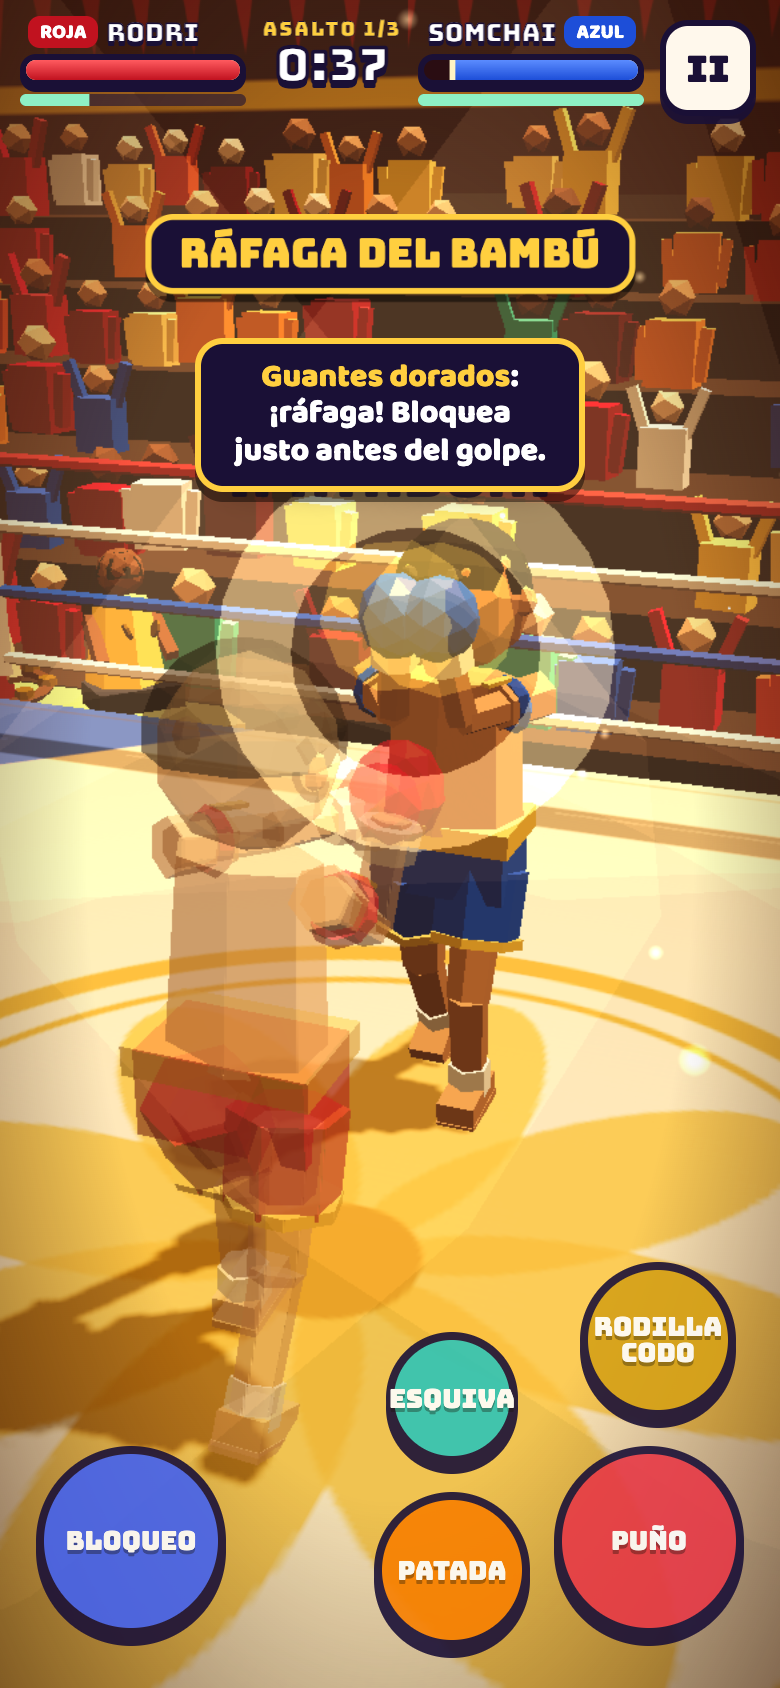
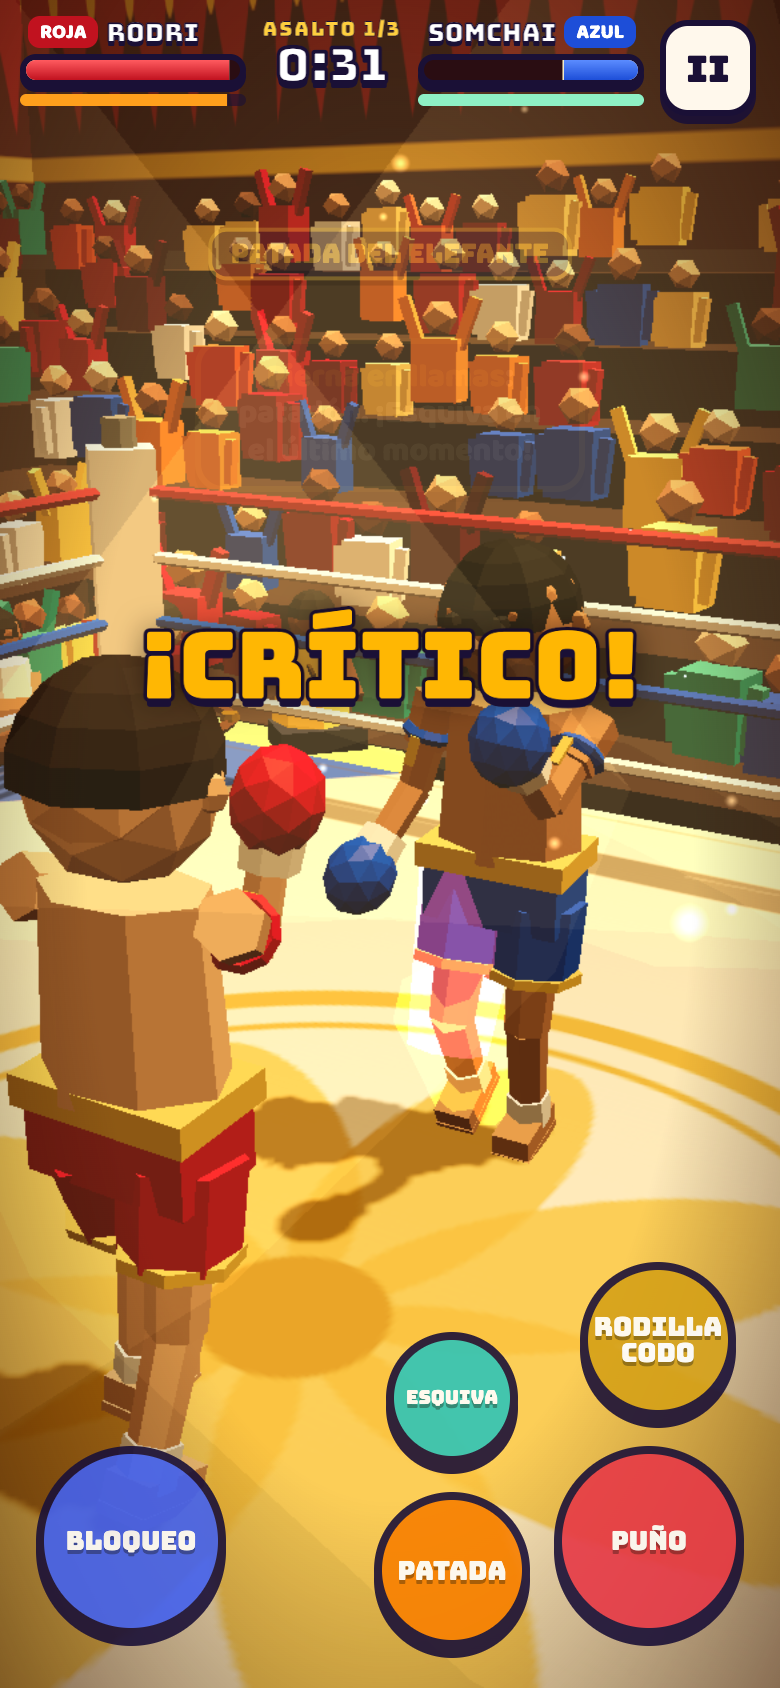
Muay Thai ronda 2: Somchai más suave tras perder, KO espectacular, botones que caben, espectáculo entre asaltos

diff --git a/src/stages/muaythai/index.js b/src/stages/muaythai/index.js
@@ -171,7 +171,16 @@ export default {
       if (m === 'ko' && st.ko) {
         const L = st.ko.loser, W = st.ko.winner;
         const mid = (L.x + W.x) / 2;
-        return { pos: V(mid + L.dir * 0.5, RING_Y + 1.75, 2.9), look: V(L.x - L.dir * 0.4, RING_Y + 0.55, 0), fov: 52, k: 2.2 };
+        const zt = Math.min(1, (st.time - st.ko.t0) / 1.6);
+        const hd = new THREE.Vector3(); L.ch.rig.hips.getWorldPosition(hd);
+        return { pos: V(hd.x, RING_Y + 1.7 - zt * 0.5, 3.4 - zt * 0.7), look: V(hd.x, Math.max(RING_Y + 0.3, hd.y - 0.1), hd.z), fov: (portraitCam ? 66 : 50) - zt * 16, k: 7 };
+      }
+      if (m === 'descanso' && compi) {
+        return { pos: V(-1.5, RING_Y + 1.75, -0.4), look: V(-3.4, RING_Y + 1.2, -2.4), fov: portraitCam ? 62 : 48, k: 2.5 };
+      }
+      if (m === 'descanso') {
+        const a = t * 0.3; const mid = (f0.x + f1.x) / 2;
+        return { pos: V(mid + Math.sin(a) * 2.8, RING_Y + 2.0, 0.8 + Math.abs(Math.cos(a)) * 2.2), look: V(mid, RING_Y + 1.0, 0), fov: portraitCam ? 64 : 50 };
       }
       if (m === 'final') {
         const a = t * 0.22;
@@ -187,8 +196,8 @@ export default {
       }
       // por encima del hombro: el propio luchador a la izquierda, el rival en el centro
       return {
-        pos: V(f.x - f.dir * (portraitCam ? 2.7 : 2.3), RING_Y + (portraitCam ? 2.75 : 2.3), side * (portraitCam ? 1.45 : 1.35)),
-        look: V(o.x + f.dir * 0.05, RING_Y + (portraitCam ? 0.85 : 0.95), side * -0.2),
+        pos: V(f.x - f.dir * (portraitCam ? 2.3 : 2.3), RING_Y + (portraitCam ? 2.6 : 2.3), side * (portraitCam ? 2.05 : 1.45)),
+        look: V(o.x + f.dir * 0.1, RING_Y + (portraitCam ? 0.85 : 0.95), side * (portraitCam ? -0.45 : -0.2)),
         fov: portraitCam ? 56 : 50,
       };
     }
@@ -227,7 +236,7 @@ export default {
         sonido.hit(mv.kind, crit);
         st.excite = Math.min(1, st.excite + (crit ? 0.5 : heavy ? 0.25 : 0.08));
         ctx.vibrate(crit ? 60 : heavy ? 35 : 12);
-        if (crit) { capa.pop('¡CRÍTICO!', { size: 'grande', color: '#ffb703', y: 0.3 }); capa.flash(0.35, '#ffd27a'); }
+        if (crit) { capa.pop('¡CRÍTICO!', { size: 'grande', color: '#ffb703', y: 0.42 }); capa.flash(0.35, '#ffd27a'); }
         else if (heavy && dmg >= 10) capa.pop(mv.kind === 'kick' ? '¡PATADÓN!' : '¡RODILLAZO!', { p: a.idx, size: '', y: 0.3 });
         else if (mv.kind === 'elbow') capa.pop('¡CODAZO!', { p: a.idx, size: 'peque', y: 0.32 });
         if (st.players === 1 && d.idx === 0) capa.flash(heavy ? 0.24 : 0.12, '#ff9a3c');
@@ -250,12 +259,13 @@ export default {
         st.excite = Math.min(1, st.excite + 0.3);
       });
       fight.on('ko', ({ winner, loser }) => {
-        st.ko = { winner, loser, round: st.round };
+        st.ko = { winner, loser, round: st.round, t0: st.time };
         engine.slowmo(1.8, 0.2);
         engine.shake(1.3);
-        capa.flash(0.9, '#ffffff');
+        capa.flash(0.35, '#fff3d0', 0.18);
         sonido.ko();
-        grito('¡KO!', { color: '#ffcf3f', ms: 1800 });
+        capa.clearTexts();
+        capa.pop('¡KO!', { size: 'mega', color: '#ffcf3f', y: 0.36, ms: 2400 });
         st.excite = 1; st.camMode = 'ko';
         ctx.vibrate(120);
       });
@@ -264,10 +274,10 @@ export default {
           capa.pop('¡TE HA LEÍDO!', { size: '', color: '#7aa7ff', y: 0.26 });
           if (ai.reads <= 2) capa.ayuda('Somchai lee los golpes repetidos: <b>¡varía!</b>', 2400, { y: innerHeight > innerWidth ? 0.2 : 0.3 });
         };
-        ai.onTell = (pat, first) => {
+        ai.onTell = (pat, first, dur) => {
           sonido.tell(pat.id === 'elefante' ? 'kick' : 'x');
           const por = innerHeight > innerWidth;
-          capa.pop(pat.name.toUpperCase(), { size: 'mt-aviso', y: por ? 0.15 : 0.22 });
+          capa.pop(pat.name.toUpperCase(), { size: 'mt-aviso', y: por ? 0.15 : 0.22, ms: Math.round(dur * 1000 + 250) });
           if (first) capa.ayuda(pat.hint, 3000, { y: por ? 0.2 : 0.3 });
         };
       }
@@ -303,7 +313,8 @@ export default {
         rng: ctx.rng, players: 2, sonido, capa, onJudge: waiJudge, solo: st.players === 1,
         ai: st.players === 1 ? { p: 1, skill: 0.85, rng: makeRng(ctx.seed ^ 0x5eed) } : null,
       });
-      capa.ayuda(st.players === 1 ? 'Toca cuando el símbolo llegue a su <b>círculo</b>. ¡Al ritmo del ching!' : 'Cada uno en su mitad: toca cuando el símbolo llegue al <b>círculo</b>.', 3800, { y: st.players === 2 ? 0.16 : 0.1 });
+      if (st.players === 1) capa.ayuda('Toca cuando el símbolo llegue a su <b>círculo</b>. ¡Al ritmo del ching!', 2700, { y: 0.1 });
+      else for (const i of [0, 1]) capa.ayuda('Toca cuando el símbolo<br>llegue al <b>círculo</b>', 2700, { p: i, y: 0.16 });
       grito('WAI KRU', { color: '#ffcf3f', ms: 1400 });
       await until(() => wk.done || disposed);
       if (disposed) return;
@@ -333,9 +344,16 @@ export default {
     // ───── combate ─────
     async function fightPhase() {
       const [f0, f1] = fighters;
-      fight = new Fight(f0, f1);
-      if (st.players === 1) ai = new RivalAI(f1, f0, ctx.rng, fight);
+      fight = new Fight(f0, f1); st.fightRef = fight;
+      if (st.players === 1) {
+        ai = new RivalAI(f1, f0, ctx.rng, fight);
+        const sv = ctx.save.stage('muaythai');
+        st.losses = sv.losses || 0;
+        ai.soft = Math.min(3, st.losses);
+        ai.firstTry = st.losses === 0 && !(sv.stars > 0);
+      }
       wireFight();
+      if (ai && ai.soft > 0) capa.ayuda(`Somchai se lo toma con calma: <b>avisos más largos</b> y golpes más suaves (intento ${st.losses + 1}).`, 3200, { y: innerHeight > innerWidth ? 0.2 : 0.3 });
       st.crowd = audio.loop('crowd'); st.crowd.set({ vol: 0.08 });
       for (let r = 1; r <= ROUNDS; r++) {
         st.round = r; if (ai) ai.round = r;
@@ -362,9 +380,18 @@ export default {
         if (r < ROUNDS) {
           await sleep(0.8);
           for (const f of fighters) { f.hp = Math.min(f.hpMax, f.hp + 10); f.st = f.stMax; }
-          if (st.players === 1) capa.ayuda(`<b>${esc(names[1])}:</b> ${TIPS[(r - 1) % TIPS.length]}`, 2600, { y: 0.55 });
-          else capa.ayuda('Descanso: ¡agua y a por el siguiente!', 2200, { y: 0.5 });
-          await sleep(2.6); if (disposed) return;
+          st.camMode = 'descanso';
+          const lider = f0.hp / f0.hpMax >= f1.hp / f1.hpMax ? 0 : 1;
+          const nom = fname()[lider].toUpperCase();
+          capa.pop(`¡${nom}! ¡${nom}!`, { size: '', color: lider === 0 ? '#ff8a80' : '#9fc0ff', y: 0.3, ms: 1800 });
+          st.excite = 1;
+          if (compi) {
+            compiAnim.play([[0.2, POSES.wave], [0.6, POSES.cheer], [1.0, POSES.wave], [1.6, POSES.neutral]]);
+            capa.ayuda(`<b>${esc(names[1])}:</b> ${compiDice(f0, f1)}`, 2700, { y: innerHeight > innerWidth ? 0.62 : 0.72 });
+          } else capa.ayuda('Descanso: ¡agua, toalla y a por el siguiente!', 2400, { y: 0.5 });
+          await sleep(2.8); if (disposed) return;
+          if (st.players === 1) { capa.ayuda(`<b>Truco:</b> ${TIPS[(r - 1) % TIPS.length]}`, 2300, { y: innerHeight > innerWidth ? 0.62 : 0.72 }); await sleep(2.3); if (disposed) return; }
+          st.camMode = 'fight';
         }
       }
       await endPhase();
@@ -373,14 +400,16 @@ export default {
     async function endPhase() {
       const [f0, f1] = fighters;
       st.phase = 'final';
-      applyLayout('fin');
       for (const f of fighters) { f.freeze = true; f.cancelTell(); }
       let winner, loser, draw = false;
       const ko = st.ko;
+      if (ko) input.configure({ joystick: false, buttons: [] }); // sin borrar el «¡KO!» de pantalla
+      else applyLayout('fin');
       if (ko) {
         winner = ko.winner; loser = ko.loser;
         refSt.mode = 'wave';
         await sleep(2.4); if (disposed) return;
+        applyLayout('fin');
       } else {
         st.camMode = 'final';
         grito('DECISIÓN…', { size: 'peque', color: '#ffffff', ms: 1500 });
@@ -410,6 +439,12 @@ export default {
       finishGame(winner, ko, draw);
     }
 
+    function compiDice(a, b) {
+      const d = a.hp / a.hpMax - b.hp / b.hpMax;
+      if (d > 0.15) return st.round === 1 ? '«¡Vas ganando! Mi abuela ya pide la foto con el cinturón.»' : '«¡Lo tienes! Hasta el árbitro te está aplaudiendo… por dentro.»';
+      if (d < -0.15) return st.round === 1 ? '«Respira. Cuando brille, espera… bloquea justo antes ¡y patada!»' : '«Tranqui, que en el avión nadie se ha enterado. ¡A por él!»';
+      return '«Esto está más igualado que la cola del baño del avión.»';
+    }
     function somchaiDice(win, wp, s) {
       if (win && wp >= 0.9) return 'Somchai: «¡Mi abuela dice que tienes muy buen wai!»';
       if (win && wp >= 0.5) return 'Somchai: «Buen combate. El wai, con un poco más de ritmo, ¡de diez!»';
@@ -432,7 +467,7 @@ export default {
           stats: [
             ['Golpes', vs(f0.stats.landed, f1.stats.landed)],
             ['Bloqueos', vs(f0.stats.blocked, f1.stats.blocked)],
-            ['Wai kru %', vs(Math.round(st.waiPrec[0] * 100), Math.round(st.waiPrec[1] * 100))],
+            ['Wai kru', `${Math.round(st.waiPrec[0] * 100)}\u00a0%\u00a0–\u00a0${Math.round(st.waiPrec[1] * 100)}\u00a0%`],
             ['Puntos', vs(p0, p1)],
           ],
           moreStats: { golpes: f0.stats.landed + f1.stats.landed },
@@ -454,6 +489,7 @@ export default {
       if (win && ko && ko.round === 1) ctx.sticker('ko-1');
       const score = Math.round(f0.stats.points * 10 + f0.hp * 5 + (win ? 1000 : 0) + (win && ko ? 1500 : 0) + st.waiPrec[0] * 1000);
       st.result = { win, stars, ko: !!ko, score };
+      { const sv = ctx.save.stage('muaythai'); sv.losses = win ? 0 : (sv.losses || 0) + 1; ctx.save.touch(); }
       ctx.finish({
         win, stars, score,
         title: win ? (ko ? '¡KO! ¡Qué combate!' : '¡Ganas a los puntos!') : (ko ? 'Somchai gana esta vez' : 'Somchai gana a los puntos'),
@@ -555,7 +591,6 @@ export default {
           for (const f of fighters) if (f) idleAnim(f, fdt);
         }
         for (const f of fighters) if (f) placeFighter(f);
-        if (st.players === 1 && fighters[0]) setGhost(fighters[0], st.camMode === 'fight' && innerHeight > innerWidth ? 0.55 : 1);
         // destellos
         for (let i = 0; i < fighters.length; i++) {
           const f = fighters[i]; if (!f) continue;
@@ -590,7 +625,7 @@ export default {
         st.excite = Math.max(0.2, st.excite - realDt * 0.25);
         estadio.update(realDt, st.phase === 'waikru' ? 0.35 : st.excite);
         if (st.crowd) st.crowd.set({ vol: 0.05 + st.excite * 0.12 });
-        audio.intensity(st.excite);
+        audio.intensity(Math.max(st.excite, st.round === ROUNDS && st.phase === 'ronda' ? 0.9 : st.round === 2 ? 0.5 : 0));
         fx.update(dt);
         for (const r of rings) {
           if (r.t >= 1) continue;

diff --git a/src/stages/muaythai/interfaz.js b/src/stages/muaythai/interfaz.js
@@ -40,6 +40,9 @@ const CSS = `
 .mt-contra.on { opacity: 1; animation: mtlatido .3s infinite; }
 .mt-pop { position: absolute; transform: translate(-50%, -50%); white-space: nowrap; font-size: clamp(28px, 3vw + 16px, 64px); color: #ffcf3f; -webkit-text-stroke: 3px #1a1036; paint-order: stroke fill; text-shadow: 0 4px 0 #1a1036, 0 0 16px rgba(20,6,2,.75); animation: mtpop 1s ease-out forwards; pointer-events: none; }
 .mt-pop.peque { font-size: clamp(22px, 1.6vw + 16px, 40px); }
+.mt-pop.mega { font-size: clamp(110px, 12vw + 60px, 240px); -webkit-text-stroke: 7px #1a1036; text-shadow: 0 8px 0 #1a1036, 0 0 30px rgba(20,6,2,.8); color: #ffcf3f; }
+.mt-region.mitad .mt-pop.mega { font-size: clamp(80px, 9vw + 40px, 160px); }
+.mt-region:not(.mitad) .mt-ayuda.lado { max-width: 40%; font-size: 14px; padding: 5px 10px; }
 .mt-pop.grande { font-size: clamp(46px, 5vw + 26px, 104px); -webkit-text-stroke: 4px #1a1036; }
 .mt-pop.mt-aviso { font-size: clamp(20px, 1.4vw + 14px, 34px); color: #ffcf3f; background: #1a1036; border: 3px solid #ffcf3f; border-radius: 14px; padding: 4px 14px; -webkit-text-stroke: 0; text-shadow: none; box-shadow: 0 4px 0 rgba(0,0,0,.5); animation: mtaviso 1.6s ease-out forwards; }
 @keyframes mtaviso { 0% { transform: translate(-50%,-50%) scale(.5); opacity: 0; } 12% { transform: translate(-50%,-50%) scale(1.12); opacity: 1; } 22% { transform: translate(-50%,-50%) scale(1); } 85% { opacity: 1; } 100% { opacity: 0; transform: translate(-50%,-50%) scale(1); } }
@@ -95,6 +98,8 @@ export const KEY_HINT = { 0: { punch: 'A', kick: 'S', knee: 'D', block: 'W', dod
 function btn(id, player, cx, cy, size, rot = false) {
   const pos = { left: Math.round(cx - size / 2), top: Math.round(cy - size / 2), width: Math.round(size), height: Math.round(size), bottom: 'auto', right: 'auto' };
   if (rot) pos.rotate = '180deg';
+  if (size < 82 && /BLOQUEO|ESQUIVA/.test(LBL[id])) pos.fontSize = size < 70 ? '9.5px' : '11px';
+  else if (size < 70 && /PATADA|RODILLA/.test(LBL[id])) pos.fontSize = '10px';
   return { id, label: LBL[id], keys: KEYS[id][0], keys2: KEYS[id][1], pad: PAD[id], color: COL[id], player, pos, _cx: cx, _cy: cy, _size: size };
 }
 
@@ -136,9 +141,10 @@ export function computeLayout({ players, phase, W, H }) {
       const g = 12, y1 = H - sb - B / 2, y2 = y1 - B - g;
       const m = 18 + B / 2;
       // jugador 1 (pulgar izquierdo): bloqueo fuera, puño dentro
-      const yd = y2 - B / 2 - g - B * 0.38;
-      buttons.push(btn('block', 0, m, y1, B), btn('punch', 0, m + B + g, y1, B), btn('knee', 0, m, y2, B), btn('kick', 0, m + B + g, y2, B), btn('dodge', 0, m + (B + g) / 2, yd, B * 0.76));
-      buttons.push(btn('block', 1, W - m, y1, B), btn('punch', 1, W - m - B - g, y1, B), btn('knee', 1, W - m, y2, B), btn('kick', 1, W - m - B - g, y2, B), btn('dodge', 1, W - m - (B + g) / 2, yd, B * 0.76));
+      // grupo compacto de 5 por jugador: abajo bloqueo · puño · esquiva, arriba rodilla · patada
+      const s3 = m + 2 * (B + g) - B * 0.1;
+      buttons.push(btn('block', 0, m, y1, B), btn('punch', 0, m + B + g, y1, B), btn('dodge', 0, s3, y1 + B * 0.1, B * 0.8), btn('knee', 0, m, y2, B), btn('kick', 0, m + B + g, y2, B));
+      buttons.push(btn('block', 1, W - m, y1, B), btn('punch', 1, W - m - B - g, y1, B), btn('dodge', 1, W - s3, y1 + B * 0.1, B * 0.8), btn('knee', 1, W - m, y2, B), btn('kick', 1, W - m - B - g, y2, B));
     }
   } else {
     // vertical: abajo = jugador 1, arriba = jugador 2 (girado 180°)
@@ -181,9 +187,9 @@ export function crearCapa(hudEl) {
   (uiRoot() || document.body).appendChild(lienzo); // por encima de los botones: las notas caen sobre ellos
   const api = {
     capa, lienzo, regions: [], hud: [],
-    flash(v = 0.8, color = '#ffffff') {
+    flash(v = 0.8, color = '#ffffff', secs = 0.35) {
       flashEl.style.transition = 'none'; flashEl.style.background = color; flashEl.style.opacity = String(v);
-      void flashEl.offsetWidth; flashEl.style.transition = 'opacity .35s'; flashEl.style.opacity = '0';
+      void flashEl.offsetWidth; flashEl.style.transition = `opacity ${secs}s ease-out`; flashEl.style.opacity = '0';
     },
     // regiones: crea un contenedor por región (girado si toca)
     setRegions(regions, players) {
@@ -268,13 +274,14 @@ export function crearCapa(hudEl) {
     ayuda(html, ms = 2600, { p = null, y = 0.62 } = {}) {
       for (const r of api.regions) {
         if (p !== null && r.pl >= 0 && r.pl !== p) continue;
-        const e = document.createElement('div'); e.className = 'mt-ayuda'; e.innerHTML = html; e.style.top = (y * 100) + '%';
+        const e = document.createElement('div'); e.className = 'mt-ayuda' + (r.pl === -1 && p !== null ? ' lado' : ''); e.innerHTML = html; e.style.top = (y * 100) + '%';
         if (r.pl === -1 && p !== null) e.style.left = p === 0 ? '25%' : '75%';
         r.el.appendChild(e);
         requestAnimationFrame(() => e.classList.add('on'));
         setTimeout(() => { e.classList.remove('on'); setTimeout(() => e.remove(), 350); }, ms);
       }
     },
+    clearTexts() { capa.querySelectorAll('.mt-ayuda, .mt-pop').forEach((e) => e.remove()); },
     dispose() { vin.remove(); lienzo.remove(); capa.remove(); flashEl.remove(); },
   };
   return api;

diff --git a/src/stages/muaythai/combate.js b/src/stages/muaythai/combate.js
@@ -183,7 +183,7 @@ export class Fight {
       else this.emit('evade', { ...info, perfect: false });
       return;
     }
-    let dmg = mv.dmg * (act.weak ? 0.55 : 1);
+    let dmg = mv.dmg * (act.weak ? 0.55 : 1) * (att.ai ? att.ai.dmgMul : 1);
     if (def.blocking && def.stun <= 0) {
       if (def.st <= 1) {
         dmg *= 0.6; this.applyHit(att, def, dmg, info, true);
@@ -260,6 +260,7 @@ export class RivalAI {
     this.decide = 1.0; this.patCd = 2.2; this.queue = []; this.qDelay = 0; this.blockFor = 0;
     this.lastPat = ''; this.seen = new Set(); this.reacted = null;
     this.onTell = null; this.current = null;
+    this.soft = 0; this.firstTry = false;
     this.hist = []; this.seenAct = null; this.onRead = null; this.reads = 0;
   }
   // ¿el jugador repite el mismo golpe? (3 seguidos del mismo tipo en menos de 2 s)
@@ -270,6 +271,10 @@ export class RivalAI {
     return a.fam === b.fam && b.fam === c.fam && a.t - c.t < 2.0;
   }
   get speed() { return this.round === 1 ? 1 : this.round === 2 ? 0.86 : 0.74; }
+  // suavidad: 0 normal; sube con cada derrota (y el primer asalto del primer intento es amable)
+  get gentle() { return this.soft + (this.round === 1 && this.firstTry ? 1 : 0); }
+  get dmgMul() { return Math.max(0.45, 1 - 0.15 * this.gentle); }
+  get tellMul() { return 1 + 0.22 * this.gentle; }
   interrupt() { this.queue = []; this.current = null; this.blockFor = 0; }
 
   intent(dt) {
@@ -313,7 +318,7 @@ export class RivalAI {
     const fa = foe.action;
     if (fa && fa !== this.reacted && fa.t > 0.1 && !fa.hit) {
       this.reacted = fa;
-      const pb = [0, 0.35, 0.45, 0.55][this.round] || 0.55;
+      const pb = ([0, 0.35, 0.45, 0.55][this.round] || 0.55) * (1 - 0.15 * this.gentle);
       const r = this.rng();
       if (fa.mv.kind === 'kick' && r < pb * 0.45 && f.dodgeCd <= 0) it.dodge = true;
       else if (r < pb) this.blockFor = 0.45 + this.rng() * 0.3;
@@ -341,12 +346,12 @@ export class RivalAI {
     const first = !this.seen.has(pat.id);
     this.seen.add(pat.id);
     this.current = pat;
-    const dur = pat.tell * this.speed * (first ? 1.25 : 1);
+    const dur = pat.tell * this.speed * (first ? 1.25 : 1) * this.tellMul;
     this.f.setTell(pat, dur, () => {
       this.queue = pat.seq.map((s) => [...s]);
       this.qDelay = 0;
     });
-    this.patCd = (3.4 + this.rng() * 1.4) * this.speed;
+    this.patCd = (3.4 + this.rng() * 1.4) * this.speed * (1 + 0.2 * this.gentle);
     this.decide = 0.6;
     if (this.onTell) this.onTell(pat, first, dur);
   }

diff --git a/src/stages/muaythai/luchador.js b/src/stages/muaythai/luchador.js
@@ -38,6 +38,7 @@ export const POSES = {
   stun: P({ hy: 0.78, lhx: -0.15, lkx: 0.35, rhx: 0.15, rkx: 0.35, lsx: -0.35, lex: -0.7, lsz: 0.25, rsx: -0.3, rex: -0.7, rsz: -0.25, nx: 0.25, tx: 0.1 }),
   ko: P({ rx: -1.48, hy: 0.82, lsz: 1.3, rsz: -1.3, lsx: -0.3, rsx: -0.2, lhx: -0.3, lkx: 0.5, rhx: -0.1, rkx: 0.2, nx: -0.2, ny: 0.5 }),
   koKnees: P({ hy: 0.55, lhx: -1.2, lkx: 1.9, rhx: -0.4, rkx: 1.5, lsx: -0.3, rsx: -0.3, lsz: 0.4, rsz: -0.4, tx: 0.3, nx: 0.5 }),
+  wave: P({ rsz: -2.6, rex: -0.4, rez: 0.3, lsz: 0.2, lex: -0.5, nx: -0.15 }),
   cheer: P({ lsz: 2.6, rsz: -2.6, lex: -0.3, rex: -0.3, nx: -0.25 }),
   cheer2: P({ lsz: 2.9, rsz: -2.9, lex: -0.1, rex: -0.1, nx: -0.35, hy: 0.9 }),
   wai: P({ lsx: -0.75, lsz: -0.62, lex: -1.75, rsx: -0.75, rsz: 0.62, rex: -1.75, tx: 0.25, nx: 0.35 }),
